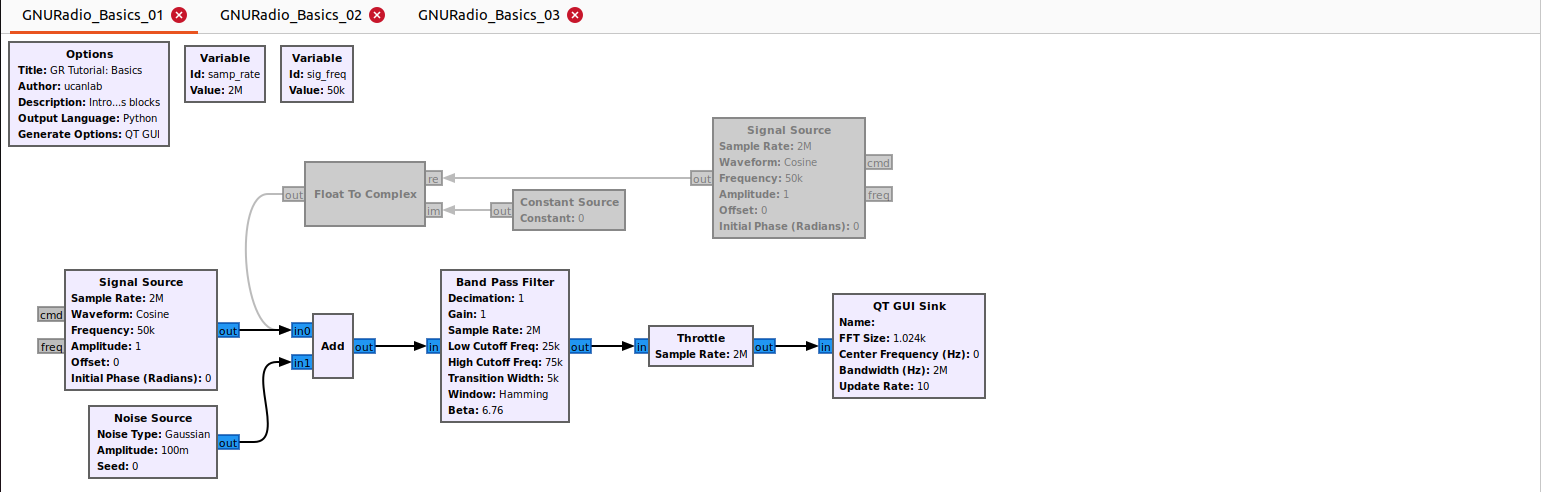
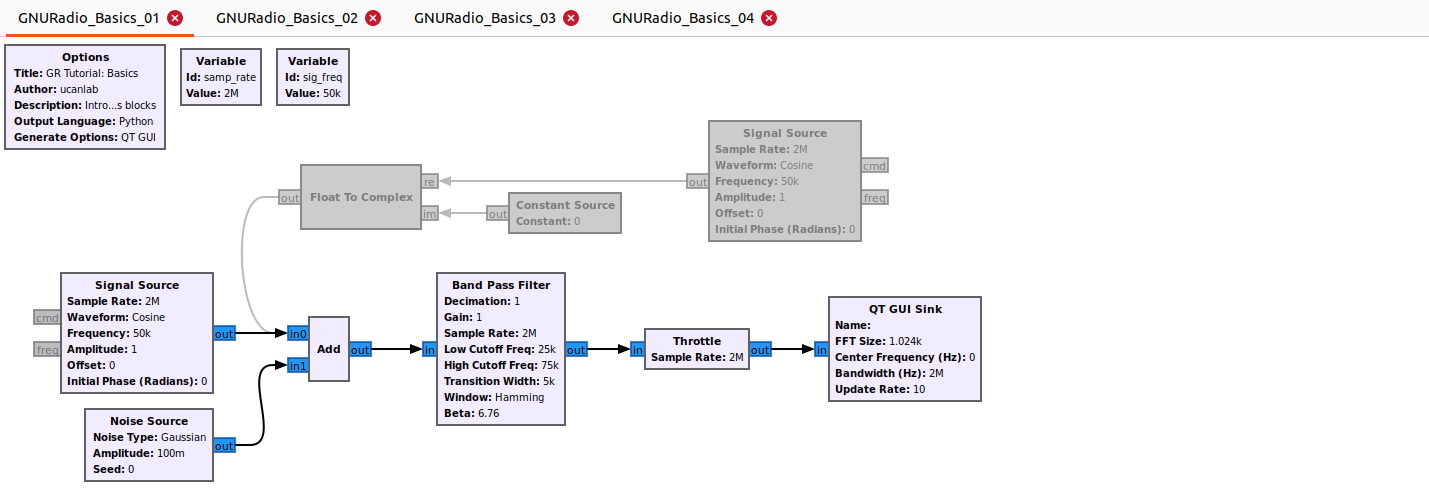
Updated GR Basics Tutorial
Added option for selecting cosine/square wave while running the flowgraph, and included documentation for dynamically changing flowgraph parameters.

Changed region(s): [[0.0, 0.5183, 0.7082, 0.9756], [0.0, 0.0, 1.0, 0.3049], [0.154, 0.2134, 0.6466, 0.4878]]

diff --git a/Documentation/GNURadio_Basics.md b/Documentation/GNURadio_Basics.md
@@ -9,7 +9,7 @@ In this tutorial, we will extend our knowledge of GNURadio and consider some bes
 
 ### Objective
 
-![Flowgraph Image](https://github.com/UCaNLabUMB/SDR_Tutorials/blob/main/Documentation/Images/02_Basics/GRBasics_03.png)
+![Flowgraph Image](https://github.com/UCaNLabUMB/SDR_Tutorials/blob/main/Documentation/Images/02_Basics/GRBasics_04.png)
 
 This tutorial will work towards developing the [GNURadio_Basics flowgraph](https://github.com/UCaNLabUMB/SDR_Tutorials/tree/main/Flowgraphs/02_Basics) shown above. This flowgraph generates a noisy sinusoidal signal and creates a GUI with a single display. The GUI also includes an interactive interface that allows users to select the real- or complex-valued sinusoid, change the frequency of the signal, and enable/disable a band pass filter. From a signal perspective, this will provide a high-level demonstration of the benefits related to filtering out-of-band noise from a desired signal. We will also demonstrate the frequency characteristics of a square wave signal, and the associated impact of filtering a noisy square wave.
 
@@ -90,20 +90,82 @@ Running the flowgraph as shown above will now give the results below. In the abs
 
 
 # Dynamic Flowgraphs
+The ability to enable/disable/bypass blocks allows for realtively quick changes to a flowgraph in an offline manner. However, we also look to modify flowgraph parameters and characteristics while the flowgraph is running. In this section, we will observe the [GNURadio_Basics_02.grc](https://github.com/UCaNLabUMB/SDR_Tutorials/tree/main/Flowgraphs/02_Basics), [GNURadio_Basics_03.grc](https://github.com/UCaNLabUMB/SDR_Tutorials/tree/main/Flowgraphs/02_Basics), and [GNURadio_Basics_04.grc](https://github.com/UCaNLabUMB/SDR_Tutorials/tree/main/Flowgraphs/02_Basics) flowgraphs to demonstrate how we can incorporate GUI tools that allow users to manually control the flowgraph while the flowgraph is running.
+
+Beginning with [GNURadio_Basics_02.grc](https://github.com/UCaNLabUMB/SDR_Tutorials/tree/main/Flowgraphs/02_Basics), shown below, we can notice that the only significant change in this flowgraph is that we've removed the **Variable** block where _sig\_source_ was set previously, and replaced it with a **GT GUI Range** block. 
+
 ![Flowgraph Image](https://github.com/UCaNLabUMB/SDR_Tutorials/blob/main/Documentation/Images/02_Basics/GRBasics_02.png)
+
+When selecting the **GT GUI Range** block, we see the set of properties shown below. Most noticeably, we see that the ID is defined as _sig\_freq_. This creates a variable in the same way as the **Variable** block, except we will now have the ability to manually change the value of the variable while the flowgraph is running. The Label property is what will be shown in the GUI (i.e., a human-readable description of the variable). The Start and Stop properties set the smallest and largest possible values of the variable, and the Step property indicates the step size for possible values of the variable. For example, the property settings below imply that we can set _sig\_freq_ to 50KHz, 100KHz, 150KHz, etc. with a maximum value of 500KHz. When the flowgraph starts, _sig\_freq_ will initially be set to 100KHz. 
+
+![GUI Range Properties](https://github.com/UCaNLabUMB/SDR_Tutorials/blob/main/Documentation/Images/02_Basics/GRBasics_02_01.png)
+
+When this flowgraph is run, we can see the slider bar and counter labeled "Signal Frequency" at the top of the GUI. In the image below, we have changed this variable's value while the flowgraph was running and the corresponding changes can be seen over time in the Waterfall view shown below.
+
+![GUI Range Properties](https://github.com/UCaNLabUMB/SDR_Tutorials/blob/main/Documentation/Images/02_Basics/GRBasics_02_02.png)
+
+* **NOTE:** The variable _sig\_freq_ is still associated with the signal frequency in the Signal Source block AND the high/low frequencies of the Band Pass filter block, so the filter is moving along with the signal in this scenario.
+
+The final additions for this section, in [GNURadio_Basics_03.grc](https://github.com/UCaNLabUMB/SDR_Tutorials/tree/main/Flowgraphs/02_Basics) and [GNURadio_Basics_04.grc](https://github.com/UCaNLabUMB/SDR_Tutorials/tree/main/Flowgraphs/02_Basics), give an additional GUI option to include manual selection of configuration parameters from a list of options. In particular, we introduce the ability to dynamically make the changes that we had previously done by enabling/disabling/bypassing blocks in the offline manner. 
 
 ![Flowgraph Image](https://github.com/UCaNLabUMB/SDR_Tutorials/blob/main/Documentation/Images/02_Basics/GRBasics_03.png)
 
-_Describe range for signal frequency_
+The first thing to notice in the flowgraph above is that we have re-introduced the virtual sink/source blocks to make the signal paths more clear. In the lower portion of the signal chain, we also see that we've introduced two **Selector** blocks. These blocks simply take a set of inputs and define which input is assigned to the output (or, optionally, which inputs are assigned to which outputs). The first **Selector** block takes in both of our generated signals (i.e., the real- and complex- valued sinusoids) and passes one of the signals to the output port. Opening this block should bring up the properties below.
 
-_Describe selector/chooser to update flowgraph while running_
+![Selector Properties](https://github.com/UCaNLabUMB/SDR_Tutorials/blob/main/Documentation/Images/02_Basics/GRBasics_03_01.png)
 
-_Discuss the filtering impact on a square wave... changing the source signal to square from cos_
+We can see that we have 2 inputs and 1 output specified. If you change these values, the number of ports available on the block will be updated in GRC. Since there is only one output port in our example, we set the output index to 0 so that the specified input will always go to this port. To determine which input signal goes to the specified output port, we specify a variable named _path\_select_ so that the selected input can be changed while the flowgraph is running. 
+
+This is where the **QT GUI Chooser** block comes in. When opening the QT GUI Chooser block with ID _path\_select_, we see the properties below.
+
+![QT GUI Chooser Properties](https://github.com/UCaNLabUMB/SDR_Tutorials/blob/main/Documentation/Images/02_Basics/GRBasics_03_02.png)
+
+Similar to the **QT Range** block, the **QT GUI Chooser** block creates a variable that can manually changed while the flowgraph is running. However, in this case we have a more specific set of values that can be selected (rather than simply specifying a range of values). We have defined 2 options where Option 0 is the integer value 0 and Option 1 is the integer value 1. These are the values that are assigned to the _path\_select_ variable and, accordingly, the values that get set as the input index for the selector block. For readability, we use the labels to show "Real Sine" and "Complex Sine" in the GUI as the options that the user can select from.
+
+Following a similar process, we have included a **Selector** block to optionally select between the output of the **Bandpass Filter** block or the output of the **Add** block. The input index property in this block is set to _filter\_select_ and we have created another **QT GUI Chooser** block that allows the user to choose between "Enable" or "Bypass" for the Filter Selection. This ultimatley allows the user to bypass the filter while the flowgraph is running. The image below shows the GUI that is created when this flowgraph is run. 
+
+![Flowgraph Running](https://github.com/UCaNLabUMB/SDR_Tutorials/blob/main/Documentation/Images/02_Basics/GRBasics_03_02.png)
+
+* **NOTE:** In the waterfall plot above, we can see that we have started with a 100KHz real-valued sinusoid. After a few seconds, we changed the frequency to 150KHz and then changed the signal source to the complex sine. Shortly after, we selected the option to bypass the filter and then set the signal source back to a real sine. Finally, we increased the signal frequency to 200KHz and then, finally, to 350KHz.
+
+The final flowgraph in this section, [GNURadio_Basics_04.grc](https://github.com/UCaNLabUMB/SDR_Tutorials/tree/main/Flowgraphs/02_Basics), is a copy of the previous example with the addition of one more **QT GUI Chooser** block. This last block allows the user to select the waveform (i.e., Cosine or Square wave) while the flowgraph is running.
+
+![Flowgraph Image](https://github.com/UCaNLabUMB/SDR_Tutorials/blob/main/Documentation/Images/02_Basics/GRBasics_04.png)
+
+The property settings for this **QT GUI Chooser** block, shown below, are similar to what we saw earlier; except we are calling values from the GNURadio analog library. Ultimately, this leads to integer values; however, this ensures that the values are understood correctly by the **Signal Source** blocks. 
+
+![QT GUI Chooser Propreties](https://github.com/UCaNLabUMB/SDR_Tutorials/blob/main/Documentation/Images/02_Basics/GRBasics_04_01.png)
+
+When opening the **Signal Source** blocks, we see that the variable name _Sig\_Type_ has been entered in the Waveform drop down menu. This can be somewhat confusing because you need to select whatever is initially in the drop down menu and type in the name of your variable.
+
+![Signal Source Propreties](https://github.com/UCaNLabUMB/SDR_Tutorials/blob/main/Documentation/Images/02_Basics/GRBasics_04_02.png)
+
+Running this flowgraph produces the results below. We now see an additional selection box for "Waveform" that allow the user to switch between a Cosine and Square Wave signal.
+
+![Flowgraph Running Waterfall](https://github.com/UCaNLabUMB/SDR_Tutorials/blob/main/Documentation/Images/02_Basics/GRBasics_04_03.png)
+
+* **NOTE:** In the waterfall plot above, we see that we initially started with a real valued sinusoid at 100KHz. The filter was then bypassed, and the waveform was changed to a square wave (leading to the higher frequncy components at multiples of the fundamental frequency). As the frequency of the square wave is increased to 150KHz and then 200KHz, the higher frequency components are also adjusted to multiples of the fundamental frequency. When the filter is then enabled, we can still see the higher frequency components from the initial square wave; but they are significantly reduced while the fundamental frequency remains consistent.
+
+The series of snap shots below demonstrates some of this implications in the time domain. First, we see a 50KHz real-valued sinusoid with the additive noise filtered out. Comparing with the second image where the filter is bypassed, we can clearly see the noise filtering benefits of our **Band Pass Filter** block!
+
+![Time Doman Cos Filter](https://github.com/UCaNLabUMB/SDR_Tutorials/blob/main/Documentation/Images/02_Basics/GRBasics_04_04.png)
+
+![Time Doman Cos No Filter](https://github.com/UCaNLabUMB/SDR_Tutorials/blob/main/Documentation/Images/02_Basics/GRBasics_04_05.png)
+
+The next image below shows the noisy square wave signal in time domain. We can clearly see the underlying square wave, but the signal is also very noisy since we are still bypassing the filter block. 
+
+![Time Doman Square Filter](https://github.com/UCaNLabUMB/SDR_Tutorials/blob/main/Documentation/Images/02_Basics/GRBasics_04_06.png)
+
+When we re-enable the filter, we see the noise reduce as desired, but we have also significantly reduced the higher frequency components (and the DC component) of our square wave, so our observation now looks similar to a sinusoid!
+
+![Time Doman Square No Filter](https://github.com/UCaNLabUMB/SDR_Tutorials/blob/main/Documentation/Images/02_Basics/GRBasics_04_07.png)
+
+
+
+
 
 ## References
 * [GNURadio Tutorials](https://wiki.gnuradio.org/index.php?title=Tutorials): General tutorials on building flowgraphs in GNU Radio.
-
-* [QT GUI Waterfall Sink](https://wiki.gnuradio.org/index.php/QT_GUI_Waterfall_Sink): Visualizing signals with the waterfall plot.
 
 
 ## Next Chapter
